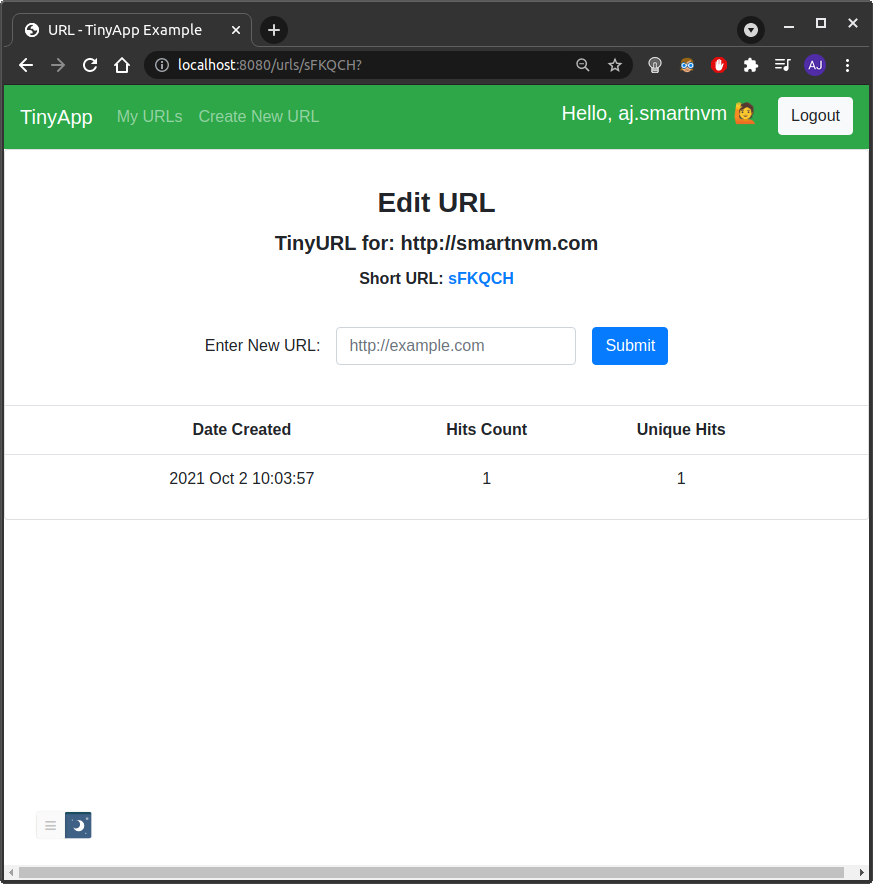
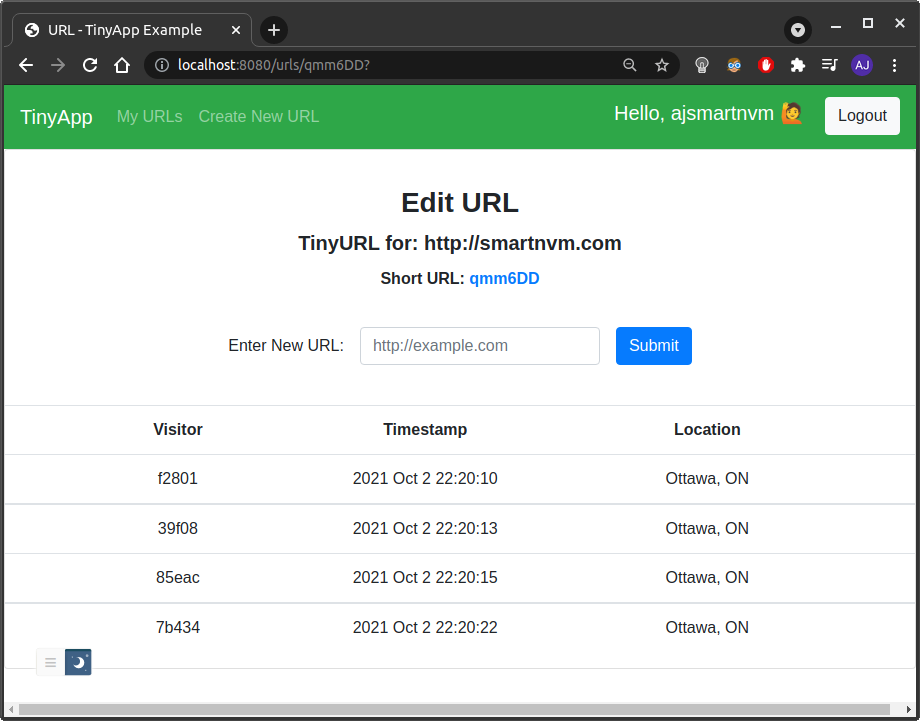
added location to edit URL :D

diff --git a/express_server.js b/express_server.js
@@ -41,7 +41,8 @@ const {
   createUser,
   getUserByEmail,
   authenticateUser,
-  getURLsByUserId } = require('./src/helpers');
+  getURLsByUserId,
+  fetchLocationByIP } = require('./src/helpers');
 
 
 const usersdB = {
@@ -60,27 +61,27 @@ const urlsDatabase = {
     longURL: "https://https://github.com/smartnvm/tinyapp",
     timestamp: 'Oct 2 2021 3:57 AM',
     clicks: 0,
-    uClicks: 0
+    uClicks: 0,
+    visit: {},
+    ips: {},
   }
 };
 
 
-const createNewURL = (shortURL, longURL, userId, timestamp, clicks, uClicks, ip) => {
+const createNewURL = (shortURL, longURL, userId, timestamp, clicks, uClicks, ip, visit) => {
 
-  let newURL = { shortURL, userId, longURL, timestamp, clicks, uClicks, 'ips': {} }
-  newURL.ips[ip] = 1
+  let newURL = { shortURL, userId, longURL, timestamp, clicks, uClicks, 'ips': {}, 'visit': {} }
   return newURL
 }
+
 const varInit = (loggedIn, errCode, user, urls) => {
   const templateVars = { loggedIn, errCode, user, urls };
   return templateVars;
 };
 
-
-
 app.listen(PORT, () => {
   console.log(`tinyURL listening on port ${PORT}!`);
-  console.log(`(c) AJ - 2021}!`);
+  console.log(`(c) AJ - 2021!`);
   console.log(`----------------------------------------`);
 });
 
@@ -100,6 +101,7 @@ app.get("/urls", (req, res) => {
 
   const urls = getURLsByUserId(userId, urlsDatabase)
   const templateVars = varInit(true, 200, user, urls);
+
   res.render("urls_index", templateVars);
 });
 
@@ -163,13 +165,28 @@ app.get("/u/:shortURL", (req, res) => {
     return;
   }
   const longURL = urlsDatabase[shortURL].longURL;
-
-  let IP = req.headers['x-forwarded-for'] || req.socket.remoteAddress;
-
+  
   urlsDatabase[shortURL].clicks++
-  urlsDatabase[shortURL].ips[IP] = 1
+    
+  let IP = req.headers['x-forwarded-for'] || req.socket.remoteAddress;
+  urlsDatabase[shortURL].ips[IP] = 1;
+  
   const uniqueIP = Object.keys(urlsDatabase[shortURL].ips).length
   urlsDatabase[shortURL].uClicks = uniqueIP
+  
+  
+  const uuid = uuidv4().substring(0, 5)
+  fetchLocationByIP((error, country) => {
+    if (error) {
+      return `❌ ERROR: ${error.message}`
+    }
+    visitor = {
+      timestamp: getTimestamp(),
+      location: country
+    }
+
+    urlsDatabase[shortURL].visit[uuid] = visitor
+  })
 
   res.redirect(longURL);
 });
@@ -206,8 +223,9 @@ app.get("/urls/:shortURL", (req, res) => {
     return;
   }
 
-  const urls = urlsDatabase[shortURL]
-  const templateVars = varInit(true, 200, user, urls)
+  const urls = getURLsByUserId(userId, urlsDatabase)
+  const templateVars = varInit(true, 200, user, urls[shortURL])
+
   res.render("urls_show", templateVars);
 });
 
@@ -268,7 +286,6 @@ app.post("/login", (req, res) => {
   return;
 
 });
-
 
 
 app.get("/register", (req, res) => {

diff --git a/src/helpers.js b/src/helpers.js
@@ -1,3 +1,4 @@
+const request = require('request');
 const bcrypt = require('bcryptjs'); // bcryptjs/dist/bcrypt');
 const { use } = require('chai');
 
@@ -143,7 +144,7 @@ const getURLsByUserId = (userId, urlsdB) => {
   let userURLs = {}
   for (const url in urlsdB) {
     if (urlsdB[url].userId === userId) {
-      
+
       userURLs[url] = urlsdB[url]
     }
   }
@@ -172,7 +173,23 @@ const checkUrlExists = (urls, value) => {
 // console.log(urlExist)
 
 
+const fetchLocationByIP = (callback) => {
+  ip = '70.52.138.185'
+  let domain = `https://freegeoip.app/json/${ip}`;  
+  request(domain, (error, response, body) => {
+    if (error) {
+      const errMsg = `❌ ERROR: ${error.message}`
+      callback(errMsg,null);
+    }
+    if (response.statusCode !== 200) {
+      const errMsg = console.log(`🚩 Status Code ${response && response.statusCode} when fetching URL: ${domain}`);
+      return callback(errMsg, null)
+    }
+    const location = JSON.parse(body).city +', '+ JSON.parse(body).region_code
+    callback(null,location)
+  });
+};
 
 module.exports = {
-  generateRandomString, validateURL, checkUrlExists, getURLsByUserId, getTimestamp, createUser, getUserByEmail, authenticateUser
+  generateRandomString, validateURL, checkUrlExists, getURLsByUserId, getTimestamp, createUser, getUserByEmail, authenticateUser, fetchLocationByIP
 }
